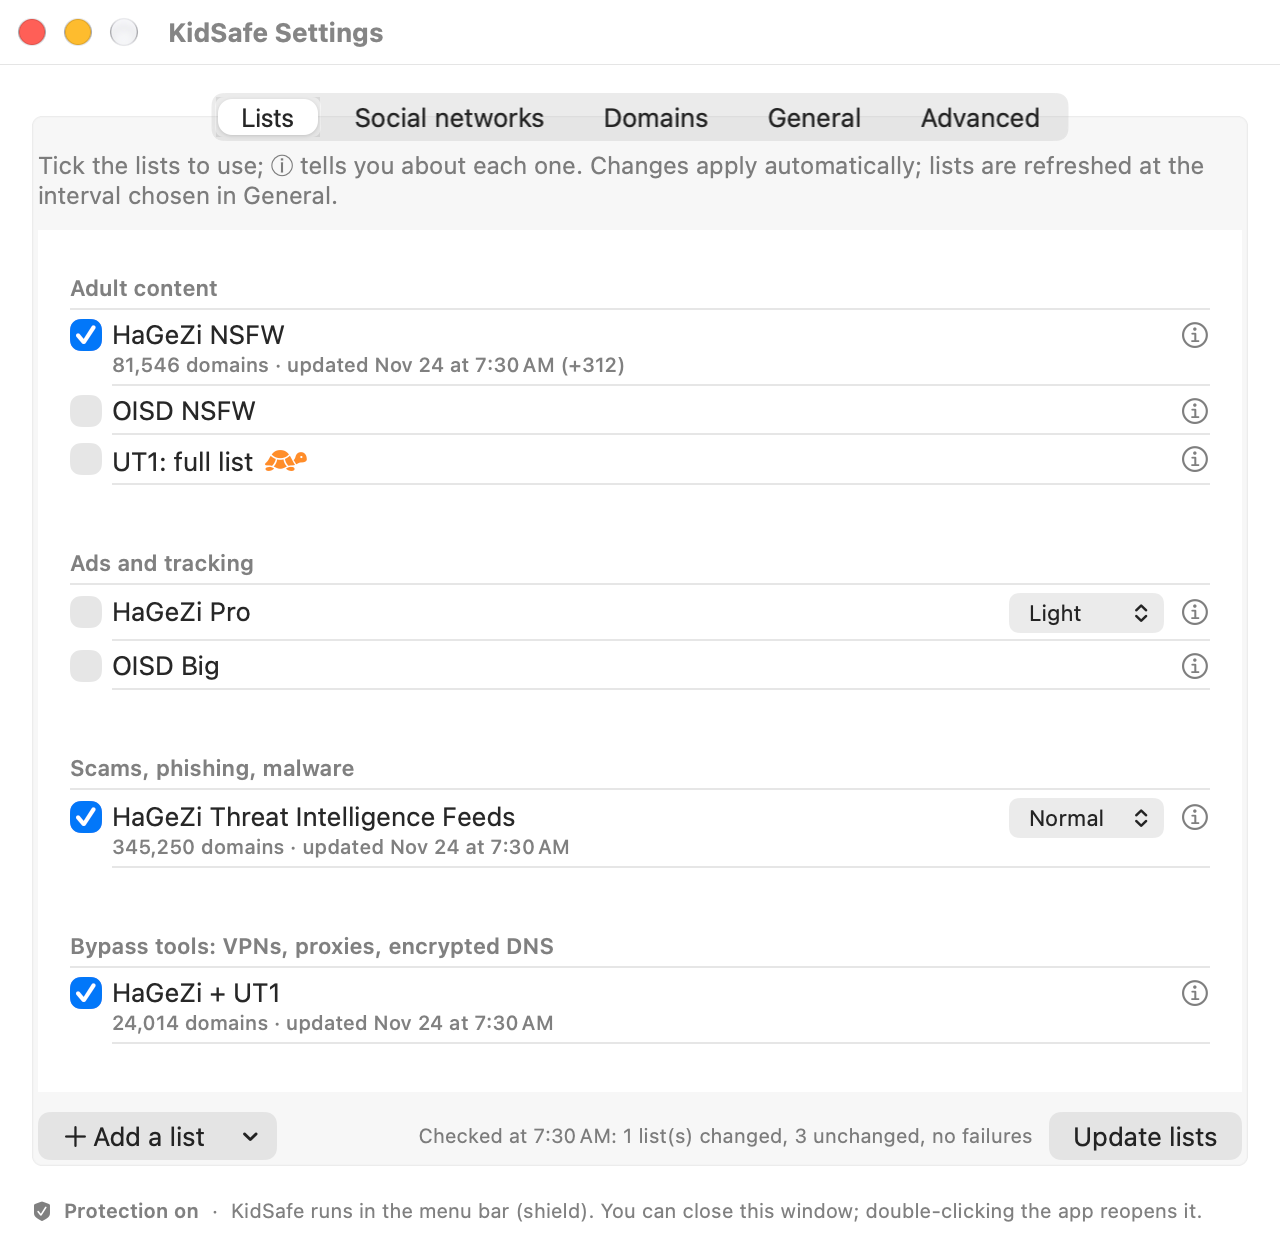
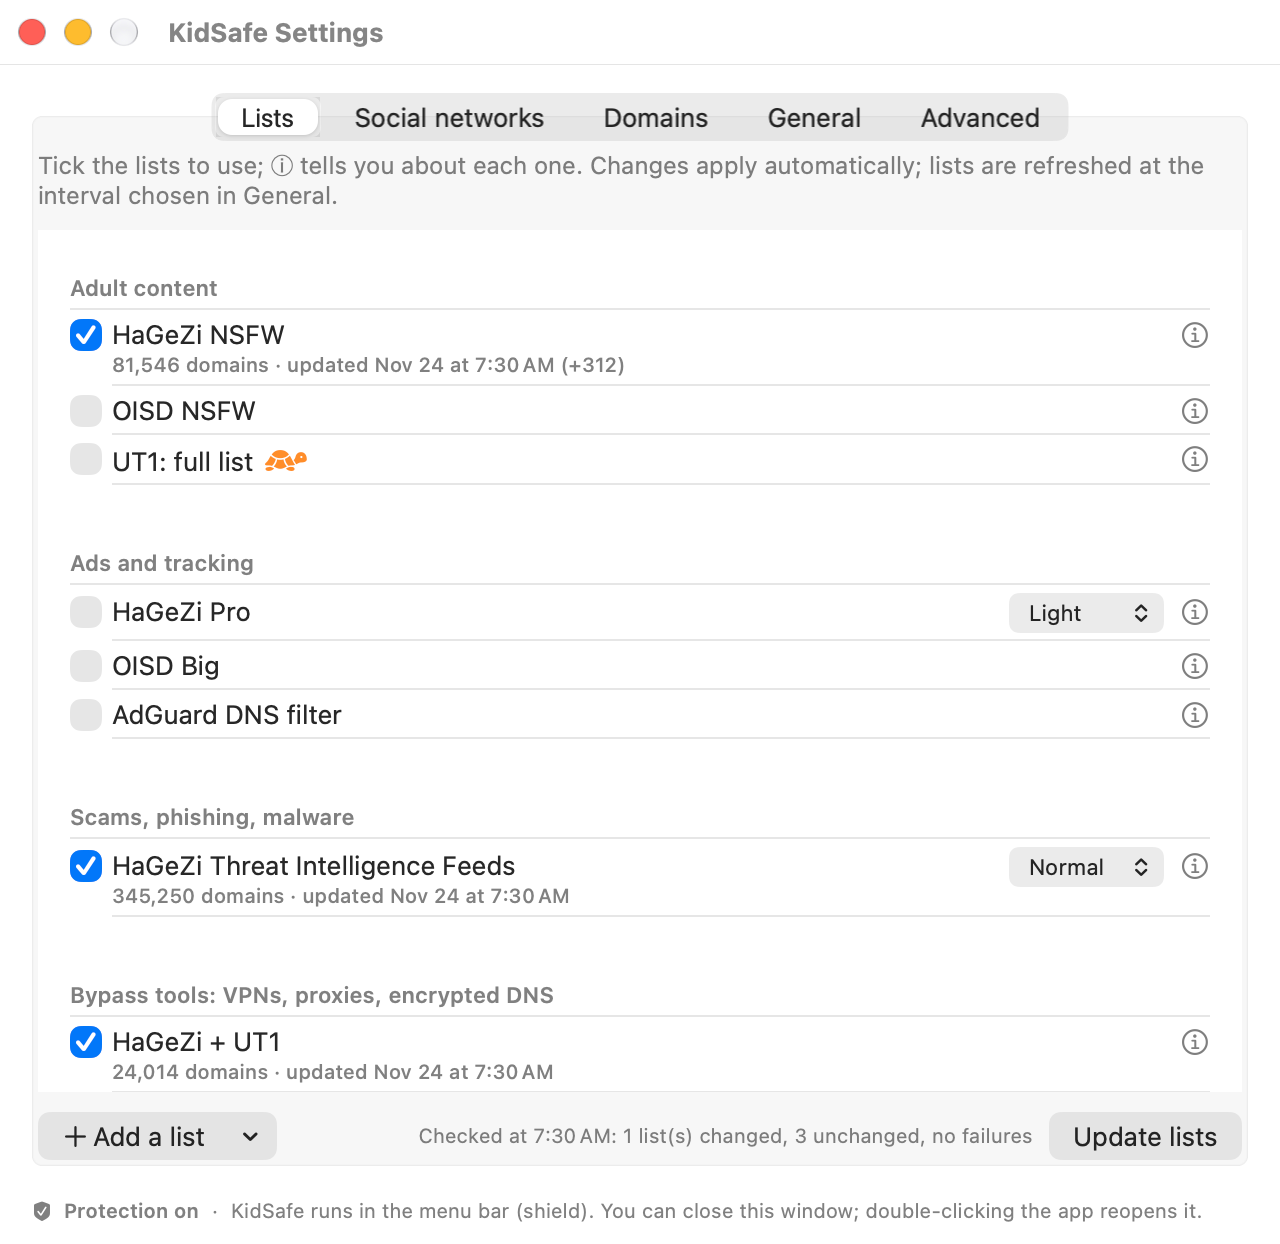
KidSafe 0.7.7 : AdGuard DNS filter, téléchargements hors filtrage
- AdGuard DNS filter parmi les listes principales (Publicité et pistage,
  sous OISD Big), décoché ; migration du catalogue en version 3.
- Les téléchargements de KidSafe (listes, mises à jour) ne passent plus par
  son propre Privoxy : la règle générique « ad*. » de Privoxy bloquait
  adguardteam.github.io, et le mode strict pouvait bloquer les mises à jour.

Changed region(s): [[0.0312, 0.5498, 0.875, 0.8859], [0.9062, 0.7942, 0.9375, 0.8553], [0.9062, 0.6415, 0.9375, 0.7026]]

diff --git a/Sources/KidSafeCore/DefaultCatalog.swift b/Sources/KidSafeCore/DefaultCatalog.swift
@@ -59,8 +59,9 @@ public extension Catalog {
     static let heavyUT1Warning = "warning.heavy.ut1"
     static let heavyTIFWarning = "warning.heavy.tif"
 
-    /// Version du format du catalogue : 2 = listes présentées par thème, avec niveaux (0.7.4).
-    static let currentVersion = 2
+    /// Version du format du catalogue : 2 = listes présentées par thème, avec niveaux (0.7.4) ;
+    /// 3 = AdGuard DNS filter parmi les listes principales (0.7.7).
+    static let currentVersion = 3
 
     /// Catalogue installé par défaut : les listes principales, par thème ; seule HaGeZi NSFW est cochée.
     /// Les autres thèmes (jeux d'argent, violence…) s'ajoutent depuis le menu « Ajouter une liste ».
@@ -76,6 +77,9 @@ public extension Catalog {
         .init(id: "ads", name: "Publicité et pistage", enabled: false, sources: levelSources("ads", .light) ?? [],
               group: .ads, level: .light),
         .init(id: "ads-oisd", name: "Publicité, pistage et malware (OISD)", enabled: false, sources: [oisd("big")], group: .ads),
+        .init(id: "adguard-dns", name: "Publicité et pistage (AdGuard)", enabled: false,
+              sources: [Source(url: "https://adguardteam.github.io/AdGuardSDNSFilter/Filters/filter.txt", license: "GPL-3.0")],
+              group: .ads),
         .init(id: "security", name: "Arnaques, hameçonnage, logiciels malveillants", enabled: false,
               sources: levelSources("security", .light) ?? [], group: .security, level: .light),
         .init(id: "bypass", name: "Contournement : VPN, proxys, DNS chiffré", enabled: false,
@@ -181,6 +185,7 @@ public extension Catalog {
         case "stevenblack-porn", "stevenblack-gambling": return other("Steven Black", sbHome, .weekly, .low, nil)
         case "easylist", "easyprivacy": return other("EasyList", "https://easylist.to", .severalDaily, .low, nil)
         case "liste-fr": return other("Liste FR", "https://github.com/easylist/listefr", .daily, .low, nil)
+        case "adguard-dns": return other("AdGuard", "https://github.com/AdguardTeam/AdGuardSDNSFilter", .daily, .low, 190_000)
         case "blp-drugs", "blp-scam", "blp-tiktok":
             return other("Block List Project", "https://github.com/blocklistproject/Lists", .stale("month.2026-07"), .high, nil)
         default: return nil
@@ -212,14 +217,36 @@ public extension Catalog {
 
     /// Met à jour un catalogue enregistré par une version précédente. Rien ne se décoche :
     /// - les listes principales gardent leur état (coché ou non) et reçoivent leur thème et leur niveau ;
-    /// - les nouvelles listes principales (OISD) arrivent décochées ;
+    /// - les nouvelles listes principales (OISD, AdGuard DNS filter) arrivent décochées, à leur place dans leur thème ;
     /// - un ancien thème coché (jeux d'argent, violence…) devient une liste ajoutée, toujours cochée ;
     ///   décoché, il disparaît de la fenêtre et reste disponible dans le menu « Ajouter une liste » ;
     /// - les listes ajoutées par le parent restent telles quelles.
     /// Renvoie vrai si le catalogue a changé.
     @discardableResult
     mutating func migrate() -> Bool {
-        guard (version ?? 1) < Self.currentVersion else { return false }
+        let from = version ?? 1
+        guard from < Self.currentVersion else { return false }
+        if from < 2 { migrateToThemes() }
+        addMissingMainLists()
+        version = Self.currentVersion
+        return true
+    }
+
+    /// Nouvelle liste principale absente d'un catalogue récent : insérée décochée après la liste principale
+    /// qui la précède. Si le parent l'avait ajoutée à la main depuis le menu, elle devient principale (même état).
+    private mutating func addMissingMainLists() {
+        var previous: String?
+        for var m in Self.mainLists {
+            defer { previous = m.id }
+            if categories.contains(where: { $0.id == m.id && $0.custom != true }) { continue }
+            if let i = categories.firstIndex(where: { $0.id == m.id }) { m.enabled = categories.remove(at: i).enabled }
+            let at = previous.flatMap { p in categories.firstIndex { $0.id == p } }.map { $0 + 1 } ?? 0
+            categories.insert(m, at: at)
+        }
+    }
+
+    /// Catalogue d'avant la 0.7.4 : listes rangées par thème, avec niveaux.
+    private mutating func migrateToThemes() {
         let old = categories
         var result: [Category] = []
         for var c in Self.mainLists {
@@ -243,7 +270,5 @@ public extension Catalog {
             }
         }
         categories = result
-        version = Self.currentVersion
-        return true
     }
 }

diff --git a/Tests/KidSafeCoreTests/KidSafeCoreTests.swift b/Tests/KidSafeCoreTests/KidSafeCoreTests.swift
@@ -268,7 +268,7 @@ import Testing
     @Test func defaultListsAreGroupedWithLevels() {
         let c = Catalog.default
         #expect(c.version == Catalog.currentVersion)
-        #expect(c.categories.map(\.id) == ["adult", "adult-oisd", "adult-ut1", "ads", "ads-oisd", "security", "bypass"])
+        #expect(c.categories.map(\.id) == ["adult", "adult-oisd", "adult-ut1", "ads", "ads-oisd", "adguard-dns", "security", "bypass"])
         #expect(c.categories.allSatisfy { $0.group != nil && $0.custom != true })
         #expect(c.categories.filter { $0.level != nil }.map(\.id) == ["ads", "security"])
         #expect(c.categories.first { $0.id == "ads" }?.sources.first?.url.hasSuffix("/pro.mini-onlydomains.txt") == true)
@@ -316,7 +316,7 @@ import Testing
         let changed = c.migrate()
         #expect(changed)
         #expect(c.version == Catalog.currentVersion && c.allowlist == ["wikipedia.org"])
-        #expect(c.categories.map(\.id) == ["adult", "adult-oisd", "adult-ut1", "ads", "ads-oisd", "security", "bypass",
+        #expect(c.categories.map(\.id) == ["adult", "adult-oisd", "adult-ut1", "ads", "ads-oisd", "adguard-dns", "security", "bypass",
                                            "gambling", "easylist", "blp-scam"])
         #expect(c.categories.filter(\.enabled).map(\.id) == ["adult", "ads", "security", "gambling", "easylist"])
         let gambling = try #require(c.categories.first { $0.id == "gambling" })
@@ -331,6 +331,30 @@ import Testing
         medium.categories[3].sources = [.init(url: hz + "tif.medium-onlydomains.txt")]
         medium.migrate()
         #expect(medium.categories.first { $0.id == "security" }?.level == .normal)
+    }
+
+    /// Catalogue de la 0.7.4–0.7.6 (version 2) : AdGuard DNS filter arrive décoché sous OISD Big ;
+    /// ajouté à la main depuis le menu, il devient une liste principale et reste coché.
+    @Test func migratesCatalogFromVersion2() throws {
+        var v2 = Catalog.default
+        v2.categories.removeAll { $0.id == "adguard-dns" }
+        v2.version = 2
+        try v2.setEnabled("ads", true)
+        var c = v2
+        let changed = c.migrate()
+        #expect(changed)
+        #expect(c.version == Catalog.currentVersion)
+        #expect(c.categories.map(\.id) == Catalog.default.categories.map(\.id))
+        #expect(c.categories.first { $0.id == "adguard-dns" }?.enabled == false && c.categories.first { $0.id == "ads" }?.enabled == true)
+        let again = c.migrate()
+        #expect(!again)
+
+        var added = v2
+        added.categories.append(.init(id: "adguard-dns", name: "x", enabled: true, sources: [], custom: true))
+        added.migrate()
+        let ag = try #require(added.categories.first { $0.id == "adguard-dns" })
+        #expect(ag.enabled && ag.custom != true && ag.group == .ads && added.categories.filter { $0.id == "adguard-dns" }.count == 1)
+        #expect(added.categories.map(\.id) == Catalog.default.categories.map(\.id))
     }
 
     @Test func engineMigratesSavedCatalog() throws {

diff --git a/Sources/KidSafeCore/KidSafeHTTP.swift b/Sources/KidSafeCore/KidSafeHTTP.swift
@@ -1,0 +1,18 @@
+import Foundation
+
+/// Session HTTP des téléchargements de KidSafe lui-même : listes, recherche et téléchargement des mises à jour.
+///
+/// Elle ne passe pas par le proxy du système, c'est-à-dire par le Privoxy de KidSafe. Sinon le filtrage
+/// pourrait bloquer KidSafe lui-même :
+/// - mode strict : tout est bloqué sauf la liste blanche (listes et mises à jour introuvables) ;
+/// - règles génériques de Privoxy : « ad*. » bloque adguardteam.github.io (AdGuard DNS filter) ;
+/// - l'hôte d'une liste bloqué par une autre liste.
+/// Privoxy n'a pas de proxy amont (pas de ligne `forward`) : il se connecte lui-même en direct,
+/// KidSafe fait de même. Les certificats TLS restent vérifiés.
+enum KidSafeHTTP {
+    static let session: URLSession = {
+        let config = URLSessionConfiguration.default
+        config.connectionProxyDictionary = [:]   // dictionnaire vide : aucun proxy (nil = réglages du système)
+        return URLSession(configuration: config)
+    }()
+}

diff --git a/Sources/KidSafeCore/SourceFetcher.swift b/Sources/KidSafeCore/SourceFetcher.swift
@@ -116,9 +116,9 @@ public struct SourceFetcher: Sendable {
 
     /// Téléchargement avec progression (tâche de téléchargement : pas de copie en mémoire avant la fin).
     private func download(_ req: URLRequest, progress: Progress?) async throws -> (Data, URLResponse) {
-        guard let progress else { return try await URLSession.shared.data(for: req) }
+        guard let progress else { return try await KidSafeHTTP.session.data(for: req) }
         let delegate = ProgressDelegate(progress)
-        let (file, response) = try await URLSession.shared.download(for: req, delegate: delegate)
+        let (file, response) = try await KidSafeHTTP.session.download(for: req, delegate: delegate)
         defer { try? FileManager.default.removeItem(at: file) }
         return (try Data(contentsOf: file), response)
     }

diff --git a/Sources/KidSafeCore/UpdateChecker.swift b/Sources/KidSafeCore/UpdateChecker.swift
@@ -33,7 +33,7 @@ public struct UpdateChecker: Sendable {
         req.setValue("application/vnd.github+json", forHTTPHeaderField: "Accept")
         req.setValue(userAgent, forHTTPHeaderField: "User-Agent")
         let data: Data, response: URLResponse
-        do { (data, response) = try await URLSession.shared.data(for: req) } catch { throw CheckError.network(error.localizedDescription) }
+        do { (data, response) = try await KidSafeHTTP.session.data(for: req) } catch { throw CheckError.network(error.localizedDescription) }
         if let http = response as? HTTPURLResponse, http.statusCode != 200 { throw CheckError.badResponse }
         return try Self.parse(data)
     }

diff --git a/Sources/KidSafeCore/BlockNotifier.swift b/Sources/KidSafeCore/BlockNotifier.swift
@@ -17,7 +17,7 @@ public final class BlockNotifier {
     }
 
     /// Catégories dont les blocages ne sont jamais signalés (en arrière-plan sur presque toutes les pages).
-    public static let quietCategoryIDs: Set<String> = ["ads", "easylist", "easyprivacy", "liste-fr", "stevenblack"]
+    public static let quietCategoryIDs: Set<String> = ["ads", "easylist", "easyprivacy", "liste-fr", "adguard-dns", "stevenblack"]
     /// Un même site n'est signalé qu'une fois pendant cette durée.
     public static let repeatInterval: TimeInterval = 10 * 60
 

diff --git a/Sources/KidSafeCore/AppUpdater.swift b/Sources/KidSafeCore/AppUpdater.swift
@@ -48,7 +48,7 @@ public enum AppUpdater {
         if url.isFileURL {
             try fm.copyItem(at: url, to: dmg)
         } else {
-            let (tmp, response) = try await URLSession.shared.download(from: url)
+            let (tmp, response) = try await KidSafeHTTP.session.download(from: url)
             guard (response as? HTTPURLResponse).map({ (200..<300).contains($0.statusCode) }) ?? false else {
                 throw UpdateError.noDownload
             }

diff --git a/README.fr.md b/README.fr.md
@@ -69,7 +69,7 @@ Développement : les variables `KIDSAFE_SUPPORT_DIR` et `KIDSAFE_PRIVOXY_CONF` i
   « Réglages… », « Soutenir KidSafe » (si un lien est configuré), « Rechercher des mises à jour », « Quitter ».
 - **Réglages** :
   - **Listes** : listes par thème (adultes : HaGeZi NSFW cochée par défaut, OISD NSFW, UT1 complète ; publicité et
-    pistage : HaGeZi Pro, OISD Big ; arnaques et logiciels malveillants : HaGeZi Threat Intelligence Feeds ;
+    pistage : HaGeZi Pro, OISD Big, AdGuard DNS filter ; arnaques et logiciels malveillants : HaGeZi Threat Intelligence Feeds ;
     contournement), niveau Léger / Normal / Renforcé pour HaGeZi Pro et Threat Intelligence Feeds, fiche ⓘ de chaque
     liste (auteur, fréquence de mise à jour, risque de blocage par erreur, licence) ; autres thèmes (jeux d'argent,
     violence, drogues, rencontres…) et autres listes gratuites dans le menu « Ajouter une liste », ainsi qu'une

diff --git a/README.md b/README.md
@@ -49,7 +49,7 @@ to the Trash. If a parent password is set, it is required.
 ## Features
 
 - **Blocklists by topic**: adult content (HaGeZi NSFW on by default, OISD NSFW, full UT1), ads and tracking
-  (HaGeZi Pro, OISD Big), scams and malware (HaGeZi Threat Intelligence Feeds), bypass tools (VPNs, proxies,
+  (HaGeZi Pro, OISD Big, AdGuard DNS filter), scams and malware (HaGeZi Threat Intelligence Feeds), bypass tools (VPNs, proxies,
   encrypted DNS). HaGeZi Pro and Threat Intelligence Feeds come in three levels (Light, Normal, Strong).
   More topics from the Add menu (gambling, violence, drugs, dating, social networks, online games, illegal downloads,
   URL shorteners), other free lists (StevenBlack, EasyList…), any list from a web address, or a file from your Mac
